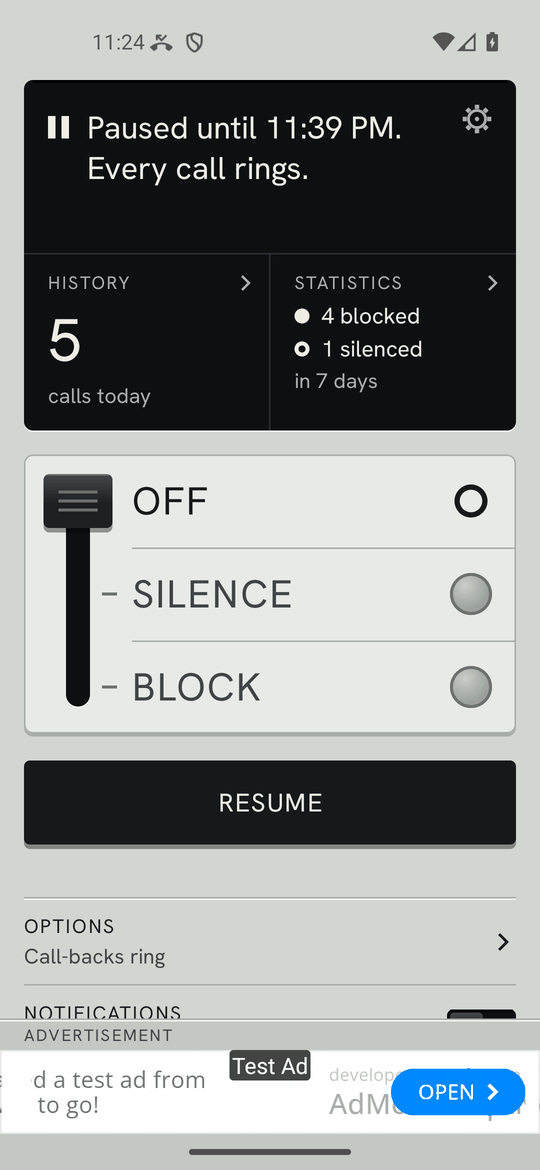
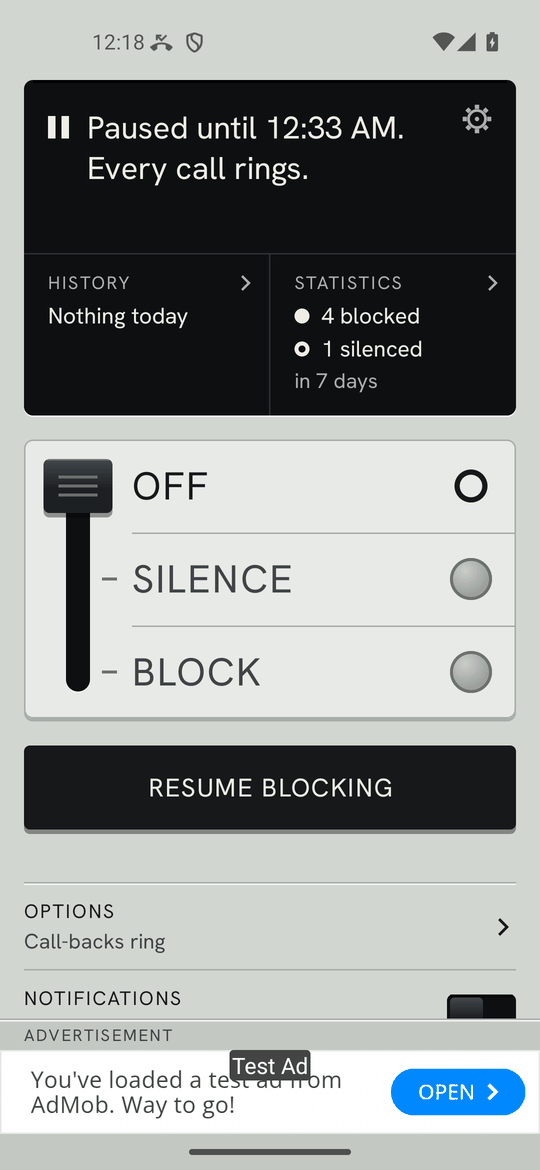
The pause's key says what it brings back, and a test build shows the planned prices (#32)
The founder's two notes from the build on his phone: "Instead of resume, rename to
resume blocks or something, it s confusing and add pricing".

- Since the lever stands at Off during a pause, a key that said only Resume did not
  say what would resume. It now reads Resume Blocking or Resume Silencing, by what
  ending the pause brings back at that moment (ModeClock.afterEndingTimer), and End
  Pause where that is Off. Its tag is unchanged.
- The plans screen of a test build shows the planned prices (99, 199 and 100 rupees
  for the step between) where Google Play has none, and says that is what they are.
  A build from Google Play shows Google Play's own price or none: one function
  decides, and a test holds it. Another holds that the upgrade is the difference.
- PLAN.md G12 records the prices as taken at his "add pricing".

225 unit tests (161 in core, 64 in app); eight deliberate breaks each failed a test.
Seen on the emulator in dark with large text and in light; checks 1, 6, 12 and 21 pass.

diff --git a/app/src/main/kotlin/com/cyanharborstudios/callblock/ui/PlansScreen.kt b/app/src/main/kotlin/com/cyanharborstudios/callblock/ui/PlansScreen.kt
@@ -25,8 +25,9 @@ import androidx.compose.ui.unit.dp
 import androidx.lifecycle.compose.collectAsStateWithLifecycle
 import com.cyanharborstudios.callblock.BuildConfig
 import com.cyanharborstudios.callblock.R
+import com.cyanharborstudios.callblock.billing.PriceLine
 import com.cyanharborstudios.callblock.billing.RestoreResult
-import com.cyanharborstudios.callblock.billing.StoreStatus
+import com.cyanharborstudios.callblock.billing.priceLineFor
 import com.cyanharborstudios.callblock.core.plans.Plans
 import com.cyanharborstudios.callblock.core.plans.Tier
 import com.cyanharborstudios.callblock.ui.parts.CapsText
@@ -73,22 +74,23 @@ fun PlansScreen(viewModel: AppViewModel, onBack: () -> Unit) {
             )
             for (plan in Tier.entries) {
                 // A plan above the user's has a product. Its plate carries Google Play's own price
-                // and a key, or says why there is neither.
+                // and a key, or says why there is neither. A test build shows the planned price
+                // where Google Play has none, and says that is what it is.
                 val product = Plans.productFor(tier, plan)
-                val price = product?.let { store.prices[it] }
+                val line = product?.let { priceLineFor(it, store, testBuild = BuildConfig.DEBUG) }
                 PlanPlate(
                     name = names.getValue(plan),
                     detail = details.getValue(plan),
                     yours = plan == tier,
-                    note = when {
-                        product == null -> null
-                        price != null && product == Plans.PRO_UPGRADE_PRODUCT -> stringResource(R.string.plan_price_upgrade, price)
-                        price != null -> stringResource(R.string.plan_price_once, price)
-                        store.status == StoreStatus.CHECKING -> stringResource(R.string.plan_asking_price)
-                        store.status == StoreStatus.UNREACHABLE -> stringResource(R.string.store_unreachable)
-                        else -> stringResource(R.string.plan_not_on_sale)
+                    note = when (line) {
+                        null -> null
+                        is PriceLine.FromGooglePlay -> priceSentence(product, line.price)
+                        is PriceLine.Planned -> priceSentence(product, line.price) + " " + stringResource(R.string.plan_price_is_planned)
+                        PriceLine.Asking -> stringResource(R.string.plan_asking_price)
+                        PriceLine.Unreachable -> stringResource(R.string.store_unreachable)
+                        PriceLine.NotOnSale -> stringResource(R.string.plan_not_on_sale)
                     },
-                    buyLabel = if (price != null) stringResource(R.string.buy_plan, names.getValue(plan)) else null,
+                    buyLabel = if (line is PriceLine.FromGooglePlay) stringResource(R.string.buy_plan, names.getValue(plan)) else null,
                     onBuy = { if (activity != null && product != null) viewModel.buy(activity, product) },
                     tag = "plan-${plan.name}",
                     buyTag = "buy-${plan.name}",
@@ -130,6 +132,11 @@ fun PlansScreen(viewModel: AppViewModel, onBack: () -> Unit) {
         }
     }
 }
+
+/** "₹99, once.", or for the upgrade the same with why it is less. */
+@Composable
+private fun priceSentence(product: String, price: String): String =
+    stringResource(if (product == Plans.PRO_UPGRADE_PRODUCT) R.string.plan_price_upgrade else R.string.plan_price_once, price)
 
 /**
  * One plan on a plate: its name as engraved, what it holds, whether it is the user's, and

diff --git a/app/src/test/kotlin/com/cyanharborstudios/callblock/billing/PriceLineTest.kt b/app/src/test/kotlin/com/cyanharborstudios/callblock/billing/PriceLineTest.kt
@@ -1,0 +1,61 @@
+package com.cyanharborstudios.callblock.billing
+
+import com.cyanharborstudios.callblock.core.plans.Plans
+import org.junit.Assert.assertEquals
+import org.junit.Assert.assertFalse
+import org.junit.Assert.assertTrue
+import org.junit.Test
+
+/** What a plan's plate says about its price, and the rule that a build from Google Play shows only Google Play's. */
+class PriceLineTest {
+
+    private val everyStatus = StoreStatus.entries
+
+    @Test
+    fun `Google Play's own price is shown whenever it has given one, in any build`() {
+        val store = StoreState(status = StoreStatus.OPEN, prices = mapOf(Plans.PRO_PRODUCT to "Rs 249.00"))
+        for (testBuild in listOf(true, false)) {
+            assertEquals(PriceLine.FromGooglePlay("Rs 249.00"), priceLineFor(Plans.PRO_PRODUCT, store, testBuild))
+        }
+    }
+
+    @Test
+    fun `a build from Google Play never shows a planned price`() {
+        for (status in everyStatus) {
+            for (product in Plans.PRODUCTS) {
+                val line = priceLineFor(product, StoreState(status = status), testBuild = false)
+                assertFalse("$product while $status: $line", line is PriceLine.Planned)
+            }
+        }
+    }
+
+    @Test
+    fun `without a price a build from Google Play says why there is none`() {
+        assertEquals(PriceLine.Asking, priceLineFor(Plans.PRO_PRODUCT, StoreState(status = StoreStatus.CHECKING), testBuild = false))
+        assertEquals(PriceLine.Unreachable, priceLineFor(Plans.PRO_PRODUCT, StoreState(status = StoreStatus.UNREACHABLE), testBuild = false))
+        assertEquals(PriceLine.NotOnSale, priceLineFor(Plans.PRO_PRODUCT, StoreState(status = StoreStatus.OPEN), testBuild = false))
+        // One product on sale does not put another on sale.
+        val onlyNoAds = StoreState(status = StoreStatus.OPEN, prices = mapOf(Plans.NO_ADS_PRODUCT to "Rs 99.00"))
+        assertEquals(PriceLine.NotOnSale, priceLineFor(Plans.PRO_PRODUCT, onlyNoAds, testBuild = false))
+    }
+
+    @Test
+    fun `a test build shows the planned price where Google Play has none, whatever Google Play said`() {
+        for (status in everyStatus) {
+            for (product in Plans.PRODUCTS) {
+                val line = priceLineFor(product, StoreState(status = status), testBuild = true)
+                assertEquals("$product while $status", PriceLine.Planned(PlannedPrices.of(product)!!), line)
+            }
+        }
+    }
+
+    @Test
+    fun `every product has a planned price, and the upgrade is the difference between the two plans`() {
+        assertEquals(Plans.PRODUCTS.toSet(), PlannedPrices.rupees.keys)
+        val noAds = PlannedPrices.rupees.getValue(Plans.NO_ADS_PRODUCT)
+        val pro = PlannedPrices.rupees.getValue(Plans.PRO_PRODUCT)
+        assertTrue(noAds in 1 until pro)
+        assertEquals(pro - noAds, PlannedPrices.rupees.getValue(Plans.PRO_UPGRADE_PRODUCT))
+        assertEquals(null, PlannedPrices.of("something_else"))
+    }
+}

diff --git a/core/src/test/kotlin/com/cyanharborstudios/callblock/core/rules/ModeClockTest.kt b/core/src/test/kotlin/com/cyanharborstudios/callblock/core/rules/ModeClockTest.kt
@@ -9,6 +9,28 @@ import java.time.ZonedDateTime
 /** The mode in effect at a moment: a timer first, then the schedule's hour, then the lever. */
 class ModeClockTest {
 
+    @Test
+    fun `ending a pause brings back the lever's stop, or the hour the schedule has set`() {
+        val at = ZonedDateTime.of(2026, 10, 5, 12, 30, 0, 0, ZoneId.of("Asia/Kolkata"))
+        val zoneHere = at.zone
+        val now = at.toInstant().toEpochMilli()
+        val paused = ScreeningSettings(mode = Mode.BLOCK, timerMode = Mode.OFF, timerUntilMillis = now + 60_000)
+        assertEquals(Mode.BLOCK, ModeClock.afterEndingTimer(paused, now, zoneHere))
+        assertEquals(Mode.SILENCE, ModeClock.afterEndingTimer(paused.copy(mode = Mode.SILENCE), now, zoneHere))
+        // A timer at Block over a lever at Off: ending it brings Off back.
+        val held = ScreeningSettings(mode = Mode.OFF, timerMode = Mode.BLOCK, timerUntilMillis = now + 60_000)
+        assertEquals(Mode.OFF, ModeClock.afterEndingTimer(held, now, zoneHere))
+        // The schedule's hour outranks the lever's stop, in both directions.
+        val mondayNoon = WeekSchedule.EMPTY.with(listOf(DayOfWeek.MONDAY), 12..12, Mode.BLOCK)
+        val scheduled = ScreeningSettings(mode = Mode.OFF, schedule = mondayNoon, scheduleOn = true, timerMode = Mode.OFF, timerUntilMillis = now + 60_000)
+        assertEquals(Mode.BLOCK, ModeClock.afterEndingTimer(scheduled, now, zoneHere))
+        val offAtNoon = WeekSchedule.EMPTY.with(listOf(DayOfWeek.MONDAY), 12..12, Mode.OFF)
+        val scheduledOff = paused.copy(schedule = offAtNoon, scheduleOn = true)
+        assertEquals(Mode.OFF, ModeClock.afterEndingTimer(scheduledOff, now, zoneHere))
+        // With the schedule switched off it is the lever again.
+        assertEquals(Mode.BLOCK, ModeClock.afterEndingTimer(scheduledOff.copy(scheduleOn = false), now, zoneHere))
+    }
+
     private val india = ZoneId.of("Asia/Kolkata")
     private val minute = 60_000L
     private val hour = 60 * minute

diff --git a/app/src/main/kotlin/com/cyanharborstudios/callblock/billing/PriceLine.kt b/app/src/main/kotlin/com/cyanharborstudios/callblock/billing/PriceLine.kt
@@ -1,0 +1,37 @@
+package com.cyanharborstudios.callblock.billing
+
+/** What a plan's plate says about its price. */
+sealed interface PriceLine {
+
+    /** Google Play's own price text. The only line a key to buy goes with. */
+    data class FromGooglePlay(val price: String) : PriceLine
+
+    /** A test build only: what the plan is meant to cost, where Google Play has nothing on sale. */
+    data class Planned(val price: String) : PriceLine
+
+    /** Google Play has not answered yet. */
+    data object Asking : PriceLine
+
+    /** Google Play could not be reached, or cannot sell on this phone. */
+    data object Unreachable : PriceLine
+
+    /** Google Play answered, and does not have this product. */
+    data object NotOnSale : PriceLine
+}
+
+/**
+ * The line for [product]. Google Play's price comes first, in any build. Without one, a
+ * test build shows the planned price; a build from Google Play shows no price at all,
+ * only why there is none.
+ */
+fun priceLineFor(product: String, store: StoreState, testBuild: Boolean): PriceLine {
+    val fromGooglePlay = store.prices[product]
+    if (fromGooglePlay != null) return PriceLine.FromGooglePlay(fromGooglePlay)
+    val planned = if (testBuild) PlannedPrices.of(product) else null
+    return when {
+        planned != null -> PriceLine.Planned(planned)
+        store.status == StoreStatus.CHECKING -> PriceLine.Asking
+        store.status == StoreStatus.UNREACHABLE -> PriceLine.Unreachable
+        else -> PriceLine.NotOnSale
+    }
+}

diff --git a/app/src/main/kotlin/com/cyanharborstudios/callblock/ui/HomeScreen.kt b/app/src/main/kotlin/com/cyanharborstudios/callblock/ui/HomeScreen.kt
@@ -262,7 +262,14 @@ fun HomeScreen(
         val pauseChoices = Durations.PAUSE.map { KeyChoice(it, shortDurationLabel(it), durationLabel(it)) }
         val privacy = stringResource(R.string.privacy_line)
         val pauseCaption = stringResource(R.string.pause_caption)
-        val resume = stringResource(R.string.resume)
+        // The key that ends a pause says what it brings back: a bare "Resume" under a lever standing at Off did not.
+        val resume = stringResource(
+            when (ModeClock.afterEndingTimer(screening, now, ZoneId.systemDefault())) {
+                Mode.BLOCK -> R.string.resume_blocking
+                Mode.SILENCE -> R.string.resume_silencing
+                Mode.OFF -> R.string.end_pause
+            },
+        )
         val endTimer = stringResource(R.string.end_timer)
         val roleButton = stringResource(R.string.role_request)
         TallestOf(

diff --git a/app/src/main/kotlin/com/cyanharborstudios/callblock/billing/PlannedPrices.kt b/app/src/main/kotlin/com/cyanharborstudios/callblock/billing/PlannedPrices.kt
@@ -1,0 +1,21 @@
+package com.cyanharborstudios.callblock.billing
+
+import com.cyanharborstudios.callblock.core.plans.Plans
+
+/**
+ * What the plans are meant to cost, in rupees, for a test build to show where Google Play
+ * has nothing on sale. A build from Google Play never shows these: the price there is
+ * Google Play's own, in the buyer's own currency. A price really lives in Play Console;
+ * these are the numbers to enter there (PLAN.md, gate G12), kept in step by a test.
+ */
+object PlannedPrices {
+
+    val rupees = mapOf(
+        Plans.NO_ADS_PRODUCT to 99,
+        Plans.PRO_PRODUCT to 199,
+        // Pro for someone who has No Ads: the difference between the two.
+        Plans.PRO_UPGRADE_PRODUCT to 100,
+    )
+
+    fun of(product: String): String? = rupees[product]?.let { "\u20B9$it" }
+}

diff --git a/core/src/main/kotlin/com/cyanharborstudios/callblock/core/rules/ModeClock.kt b/core/src/main/kotlin/com/cyanharborstudios/callblock/core/rules/ModeClock.kt
@@ -42,6 +42,14 @@ object ModeClock {
         return withoutTimer(settings, atMillis, zone)
     }
 
+    /**
+     * The mode that ending a running timer at [atMillis] brings back at once: the schedule's
+     * hour if it asks for one, else the lever's own stop. It is what the key that ends a
+     * pause is named for.
+     */
+    fun afterEndingTimer(settings: ScreeningSettings, atMillis: Long, zone: ZoneId): Mode =
+        withoutTimer(settings, atMillis, zone).mode
+
     /** The schedule's hour when it asks for a mode, else the lever; and the next hour that differs. */
     private fun withoutTimer(settings: ScreeningSettings, atMillis: Long, zone: ZoneId): ModeNow {
         if (!settings.scheduleOn || settings.schedule.isEmpty) {

diff --git a/FEATURES.md b/FEATURES.md
@@ -21,7 +21,7 @@ page they open exists (F-35, F-38, F-39).
 
 **Verification** names exactly what was proven:
 
-- a **unit test** (`./gradlew test`: 219 tests, 160 in `core` and 59 in `app`, all passing);
+- a **unit test** (`./gradlew test`: 225 tests, 161 in `core` and 64 in `app`, all passing);
 - **emulator check N** — check N of `tools/verify_emulator.py`, which simulates calls
   with `adb emu gsm call` and reads what Android then did (Telecom's event log, the
   system call log, the notification manager);
@@ -160,7 +160,7 @@ summary (F-09).
 | A-10 | The lever stands at the mode in effect. A timer or the schedule can put it there; its lamp is then a ring, and the display's second line says until when and what follows ("Until 8:25 PM. Then Off.") | with a schedule the old rule, the handle where the user left it, breaks: an hour set to Off would leave the handle on Block, and a tap on Block would do nothing (`NOTES.md` N-42) | `ModeClockTest` (13), `LeverMovesTest` (6); **emulator checks 19 and 20**; seen at 360 dp, light and dark, 100% and 135% text |
 | A-11 | **Timer** (Pro): switch to Off, Silence or Block for 15 minutes, 1, 4 or 24 hours, on a sheet from Home's Automatic section; then the schedule or the lever takes over again. The pause under the lever is its free part | the founder's ask, 5 Oct 2026: "to office silence or block for the next few mins hours" | `RuleEngineTest` (3 timer tests), `PauseTileTest`; **emulator check 19**: Block for 15 minutes with the lever at Silence blocks a caller, and 17 minutes on the lever's Silence is back |
 | A-12 | **Schedule** (Pro): the hours of the week that set the mode by themselves, on a grid of seven days by twenty-four hours, with a top row for every day. Drag across a day to set a span, tap for one hour; an hour left empty follows the lever. A lever move inside the schedule's hours holds until they end | the founder's ask, 5 Oct 2026: "To block during certain hours of the week" | `WeekScheduleTest` (7), `ModeClockTest` (time zones, the week's wrap, clocks going back), `RuleEngineTest` (5 schedule tests); **emulator check 20**: the present hour set to Block blocks with the lever at Off, a lever move inside it holds, and the next hour rings |
-| A-13 | **Plans**: Free, No Ads and Pro, each paid plan bought once through Google Play (`billing/PlayStore.kt`, ADR-009). A paid plan has no ad tray and the ads are never started for it. What a plan may use is decided in `core/plans/Plans.kt` and applied as the settings are read. Google Play is asked what the user owns each time the app comes to the front; a purchase not yet paid for grants nothing; a failure to reach Google Play changes nothing. The plans screen shows Google Play's own price and a key for each plan above the user's, or says why there is neither, and has Restore Purchases. A test build has keys to try each plan | the founder's ask, 5 Oct 2026: "Make it freemium ... maybe 2 tiers" (`PLAN.md` G12) | `PlansTest` (10); `LaunchGateTest` pins the three product ids, `ManifestPermissionsTest` the one new permission; **emulator check 21**: the ad tray on Free only; a schedule stored on Pro does nothing on No Ads or Free and runs again on Pro; without Pro the Timer and Schedule rows open Plans. On the emulator, which has no Google account, the plans screen says Google Play could not be reached, and so does Restore Purchases. The screen with prices and its Buy keys was seen with made-up prices from a throwaway change. **A purchase has not been made: it needs the app and its three products in Play Console** |
+| A-13 | **Plans**: Free, No Ads and Pro, each paid plan bought once through Google Play (`billing/PlayStore.kt`, ADR-009). A paid plan has no ad tray and the ads are never started for it. What a plan may use is decided in `core/plans/Plans.kt` and applied as the settings are read. Google Play is asked what the user owns each time the app comes to the front; a purchase not yet paid for grants nothing; a failure to reach Google Play changes nothing. The plans screen shows Google Play's own price and a key for each plan above the user's, or says why there is neither, and has Restore Purchases. A test build has keys to try each plan, and shows the planned prices (₹99, ₹199, ₹100 for the step between; `billing/PlannedPrices.kt`) where Google Play has none, marked as planned; a build from Google Play never shows them (`PriceLineTest`, 5) | the founder's ask, 5 Oct 2026: "Make it freemium ... maybe 2 tiers" (`PLAN.md` G12) | `PlansTest` (10); `LaunchGateTest` pins the three product ids, `ManifestPermissionsTest` the one new permission; **emulator check 21**: the ad tray on Free only; a schedule stored on Pro does nothing on No Ads or Free and runs again on Pro; without Pro the Timer and Schedule rows open Plans. On the emulator, which has no Google account, the plans screen says Google Play could not be reached, and so does Restore Purchases. The screen with prices and its Buy keys was seen with made-up prices from a throwaway change. **A purchase has not been made: it needs the app and its three products in Play Console** |
 | A-14 | **Call-backs**: a number the user called themselves rings when it calls back within 24 hours. On as installed; one switch in Options (Call-backs). Android shows a screening app the user's outgoing calls to numbers outside the contacts, so no permission is involved; the number is kept for that day only, on the phone (`screening/DialledNumberRecorder.kt`, the `you-called` rule, ADR-007) | a blocker that stops every unknown number also stops the one unknown call the user asked for: the clinic, the courier, the support line ringing back. The pause covers it only if they remember to press it first. From the founder's ask of 5 Oct 2026 for more features of the kind; free | `RuleEngineTest` (6 call-back tests), `CallScreenerTest`, `DialledNumberRecorderTest` (5); **emulator check 22**: a stranger is blocked, the user calls that number, it calls back and rings (`you-called`), 25 hours on it is blocked again, and with the switch off nothing is kept. The database's step from version 1 to 2 seen on the emulator, rows intact. **Not yet seen on a real phone** |
 | A-15 | **After a call to an emergency number, every call rings for 24 hours.** The app pauses itself: the ordinary pause, on Home with its end time and Resume. No switch. Android shows a screening app that outgoing call and says whether a number is an emergency number, with no permission (`core/…/rules/EmergencyPause.kt`, `screening/EmergencyCallPause.kt`, ADR-008) | the calls that follow an emergency call come from numbers nobody has saved: a control room ringing back, an ambulance crew, a hospital. Android itself lets calls through only for the few minutes of emergency callback mode, where a network has it. Apple's Phone app turns its screening off for 24 hours after such a call | `EmergencyPauseTest` (5), `EmergencyCallPauseTest` (3); **emulator check 23**: a made-up number on Android's test list of emergency numbers is called from Android's dialer, the app's log says emergency, Home offers Resume, a stranger rings by the rule `paused`, and 25 hours on the lever's Block is back. **Never to be tried on a real phone** |
 | A-16 | **Number rules** (Pro): the user's own rules about how a number starts, in Options. Type a country code such as +92, or the first digits an office's lines share, and press Always Ring or Always Block. The longest start wins, among their rules and India's two series alike; at the same length their own rule comes first. They come after the allow list and a call-back, before the repeat-caller pass and the scope, and apply while the mode in effect is Silence or Block (`core/…/rules/NumberRule.kt`, `RuleBook.startRules`, `PhoneNumbers.startKey`) | the founder's ask of 5 Oct 2026 for more Pro features of the kind. Three of the 34 call blockers surveyed that day sell rules by a number's first digits, the closest app to this one among them (`docs/premium-research.md`), and it was this app's own recommendation for Pro's second feature | `RuleEngineTest` (10 number-rule tests), `NumberRulesTest` (6), `PhoneNumbersTest` (5 on starts), `PlansTest`; 24 deliberate breaks each failed a test, one of them only after a test was added for it; **emulator check 24**: with the lever at Silence a number that starts the blocked way is blocked, the one number inside it with a longer Always Ring rule rings, another number is silenced as before; on Free the rules are not used and the row opens Plans; on Pro again they are back; removed, the number is silenced again. Seen at 360 dp, light and dark, 100% and 135% text |

diff --git a/knowledge-base/docs/05-design-workflow.md b/knowledge-base/docs/05-design-workflow.md
@@ -87,3 +87,4 @@ reference consulted was to be listed in `design/`.
 | 2026-10-05 | **Built outside the prototype, at the founder's ask: How It Works and About, and three wordings.** He handed over his notes from two days with the build (`NOTES.md` N-40). How It Works is the tutorial section logged on 4 Oct, built now in the form he asked for ("tutorial section at the start and a feature for tutorial"): it opens by itself until it has been closed once, and from the first row of Settings after that. It uses the parts as they are: the header, sections under engraved rules, a plate like the lever's own with the three stops in the lever's type, and one main key, Done. About is one screen under Settings for the licences and Contact, and for the privacy policy once its page exists; Settings is now How It Works, the summary, About and the build stamp. The wordings: "Pause for" over Home's keys (round 1's "Let every call ring for" was not understood: "What do you mean - let every call ring for?"; the brief's own words were "Pause For"); Home's line at Off without its first sentence ("No account? What? Remove this sentence"); and the summary's one sentence became one for each key, under the keys. **Review notes for round 2:** draw How It Works and About; take Settings' new order and these words as given; the Privacy Policy, Share App and Rate App rows appear only once the pages they open exist. His one note of praise: "History section looks slick" |
 | 2026-10-05 | **Built outside the prototype, at the founder's ask that evening: the Automatic section, the timer's sheet, the Schedule screen, the Plans screen; and the lever's meaning changed** (`NOTES.md` N-42). Home gains a section, Automatic, with two strips: Timer and Schedule. On Pro it sits right under the lever's bay; on the other plans the rows carry the word Pro, lead to Plans, and sit after Options and Notifications, so a row that is for sale never pushes a free one down. The timer is a sheet in the number sheet's idiom: latching keys for where to switch to, then the length, which is the commit. The Schedule is a grid, seven rows of twenty-four hours with a top row for every day, in the hour chart's idiom on a recessed dark track: a blocked hour is a solid unit, a silenced one an outlined unit, an hour set to Off a small ring. Plans is three plates, the user's own marked Yours. **The lever now stands at the mode in effect**, not where the user left it; while a timer or the schedule holds it the lamp is the ring the prototype drew for a pause, and the display has a second line for until when and what follows. A pause therefore moves the handle to Off, which the prototype's paused frame does not show. **Review notes for round 2:** draw all four surfaces and the display's second line; say whether the ring is the right sign for "held for a while"; the every-day row's dot where the days differ; and how the three plans should look when two of them have prices |
 | 2026-10-05 | **Built outside the prototype, later that evening: three more surfaces, all from parts the prototype has** (`NOTES.md` N-43 to N-46). Options gains one strip with a switch, Call-backs, between the 140 strip and Repeat Callers, and a last section, Number Rules: on Pro the allow list's own row, recessed field and two keys over the keyboard, with the caption over the keys saying the start as the app reads it; on the other plans one strip with the word Pro. The Plans screen's plates gain a line for Google Play's price and one key each, and under them a Restore Purchases key with a line for what it found. How It Works gains two sentences and a renamed last section, In Pro. Review notes for round 2: draw these four; and decide whether Home should say why it is paused after a call to an emergency number, which today it does not (`knowledge-base/adr/ADR-008`). `docs/verification/screens/` has them as built (`07`, `29` to `36`) |
+| 2026-10-06 | **A wording changed at the founder's ask: the key that ends a pause.** With the build on his phone, paused, he wrote: "Instead of resume, rename to resume blocks or something, it s confusing". The prototype's key says Resume. Since 5 Oct the lever stands at Off during a pause, so nothing on the screen said what would resume. The key is now named for what it brings back: Resume Blocking, Resume Silencing, or End Pause when what comes back is Off (an hour the schedule has set to Off). A note for round 2: draw the paused state with the lever at Off and this key (`NOTES.md` N-49; `docs/verification/screens/03-home-paused.png`) |

diff --git a/PLAN.md b/PLAN.md
@@ -83,7 +83,7 @@ taste binds every screen and string either way.
 | G9 | The public track | (a) ship the parity build to production · (b) hold it on internal testing until the differences are in | **Resolved 2026-10-04: (b).** The founder forwarded the Play Repetitive Content analysis ("can you ensure this for scarlet"). The first difference, India's number series, was built the same day; the second (a reason on every call, Always Block) waits for design round 2; the third is G10 | before the first public track |
 | G10 | The third difference | a Quick Settings tile that pauses filtering · schedules · custom prefix rules · a country allow list for the international scope | **Resolved 2026-10-04: the tile** ("go with the quick settings tile"). Lit while calls are filtered; one tap pauses filtering for an hour, the next resumes it; when nothing is filtered a tap opens the app. Built the same day (`TASKS.md` component 9). The reference has none of the four (checked on the founder's phone, 2 Oct); the repeat-caller pass first proposed is parity (F-13) | done |
 | G11 | What the Pro unlock holds | (a) no ads only · (b) no ads, plus a schedule and rules by a number's first digits, both built for it · (c) as (b), and Statistics' charts move behind it | **Resolved 2026-10-05, by the founder:** "Add 2 premimum features: To block during certain hours of the week. And to office silence or block for the next few mins hours. Make it freemium, think of some marketing model, maybe 2 tiers, think of more such features and add them". So Pro holds a weekly schedule and a timer (Off, Silence or Block for a while; the pause stays free as its Off part), the app is free with paid plans, and nothing that was free moved. Built the same day (`TASKS.md` component 12, `NOTES.md` N-42). Under "more such features", Pro also got rules by a number's first digits that evening (component 15, N-45), and everyone got two free ones: call-backs (component 13) and a day's pause after an emergency call (component 14). The research behind the choice is `docs/premium-research.md` | done |
-| G12 | The plans, their names and their prices | (a) one paid plan, Pro · (b) two paid plans, No Ads and Pro, each bought once, with an upgrade from the first to the second at the difference · (c) a subscription | **Built as (b), for the founder to confirm.** He said "maybe 2 tiers". No Ads is the cheap plan two reviewers of the modelled app asked for and could not buy; Pro holds No Ads and the features. Recommended prices to start: No Ads ₹99, Pro ₹199, the upgrade ₹100, all inside what one-time unlocks in this category cost in India, and to be tested in Play Console. Not (c): the sharpest reviews in the category are about subscriptions. Going back to one plan is one line in `core/plans/Plans.kt` and one plate on the plans screen. The prices are set in Play Console and the app shows Play's own | before the products are created in Play Console |
+| G12 | The plans, their names and their prices | (a) one paid plan, Pro · (b) two paid plans, No Ads and Pro, each bought once, with an upgrade from the first to the second at the difference · (c) a subscription | **Built as (b), for the founder to confirm.** He said "maybe 2 tiers". No Ads is the cheap plan two reviewers of the modelled app asked for and could not buy; Pro holds No Ads and the features. Recommended prices to start: No Ads ₹99, Pro ₹199, the upgrade ₹100, all inside what one-time unlocks in this category cost in India, and to be tested in Play Console. Not (c): the sharpest reviews in the category are about subscriptions. Going back to one plan is one line in `core/plans/Plans.kt` and one plate on the plans screen. The prices are set in Play Console and the app shows Play's own. **Taken as agreed on 6 October 2026:** shown the recommendation, the founder answered "add pricing" and named no other numbers, so ₹99, ₹199 and ₹100 are the prices to start. They are in `billing/PlannedPrices.kt` for a test build to show, marked as planned, and are his to enter in Play Console; a build from Google Play shows only Google Play's own price. Changing them is that one file and Play Console | before the products are created in Play Console |
 
 Every resolution is recorded in the knowledge base the day it is made.
 

diff --git a/NOTES.md b/NOTES.md
@@ -660,3 +660,27 @@ which tells a cable problem from a setting on the phone in two commands. And wha
 phone with this build, for him to know: Call-backs is on as installed, so a number he calls can
 ring back for a day; a call to an emergency number pauses the app for a day; the plans screen is
 there, with a test build's keys to try each plan, and says Google Play has nothing on sale.
+
+**N-49 The founder's first two notes on the freemium build.** Minutes after it went on his
+phone he sent a screenshot of Home, paused, and wrote: "Instead of resume, rename to resume
+blocks or something, it s confusing and add pricing".
+
+- **The key that ends a pause says what it brings back.** Since N-42 the lever stands at Off
+  during a pause, so the screen showed Off, "Paused until 04:03", and a key that said only
+  Resume: nothing said what would resume. The key now reads Resume Blocking or Resume Silencing,
+  by what ending the pause brings back at that moment (`ModeClock.afterEndingTimer`: the
+  schedule's hour if it has set one, else the lever's own stop), and End Pause in the one case
+  where that is Off. His words were "resume blocks"; Blocking is the app's word for the mode.
+  The key's tag is unchanged, so no check was touched.
+- **Pricing.** Read as: put the prices on the plans screen, at the numbers recommended, since
+  he named no others (`PLAN.md` G12). A price really lives in Play Console, and the studio's
+  rule is that the store's own price is the one shown. So a test build, which Google Play
+  sells nothing to, now shows the planned prices on the plates and says that is what they are
+  ("₹99, once. The planned price. This test build cannot buy."); a build from Google Play
+  shows Google Play's price or none. One function decides which (`billing/PriceLine.kt`), and
+  a test holds that a build from Google Play never shows a planned price. Another test holds
+  that the upgrade's planned price is the difference between the two plans'.
+
+Seen on the emulator at 360 dp, in dark with large text as on his phone and in light: the key
+on one line in both wordings, and the plans on Free and on No Ads. Checks 1, 6, 12 and 21
+passed on the build before it merged.

diff --git a/TASKS.md b/TASKS.md
@@ -25,6 +25,7 @@ feature-by-feature state is in `FEATURES.md`.
 | 15 | Number rules, Pro's third feature (`NOTES.md` N-45): `NumberRule` and its text form in `core`, the rules about how a number starts ordered by length in `RuleBook`, the section in Options, the plans screen and How It Works; emulator check 24 | done | #28 |
 | 16 | Buying a plan through Google Play (`NOTES.md` N-46, ADR-009): the Play Billing Library, `billing/PlayStore.kt`, prices and Buy keys on the plans screen, Restore Purchases; the product ids and the one new permission pinned by tests. A purchase itself waits for Play Console | done | #29 |
 | 17 | The record after the freemium round: all twenty-four emulator checks in one recorded run on the merged build, the changed screens retaken and eight new ones, the contact sheet made again | done | #30 |
+| 18 | The founder's two notes from the build on his phone, 6 Oct (`NOTES.md` N-49): the key that ends a pause says what it brings back (Resume Blocking, Resume Silencing); the plans screen of a test build shows the planned prices | done | #32 |
 | 10 | The founder's feedback notes of 4 and 5 October (`NOTES.md` N-40): How It Works, the tutorial section, which opens by itself until it has been closed once and again from Settings; "Pause for" over Home's keys; Home's privacy line without "No account"; Settings reordered, the summary reworded, the licences and Contact under one About row; rows whose pages do not exist yet are hidden; emulator check 18 | done | #22 |
 
 ## Open, in order
